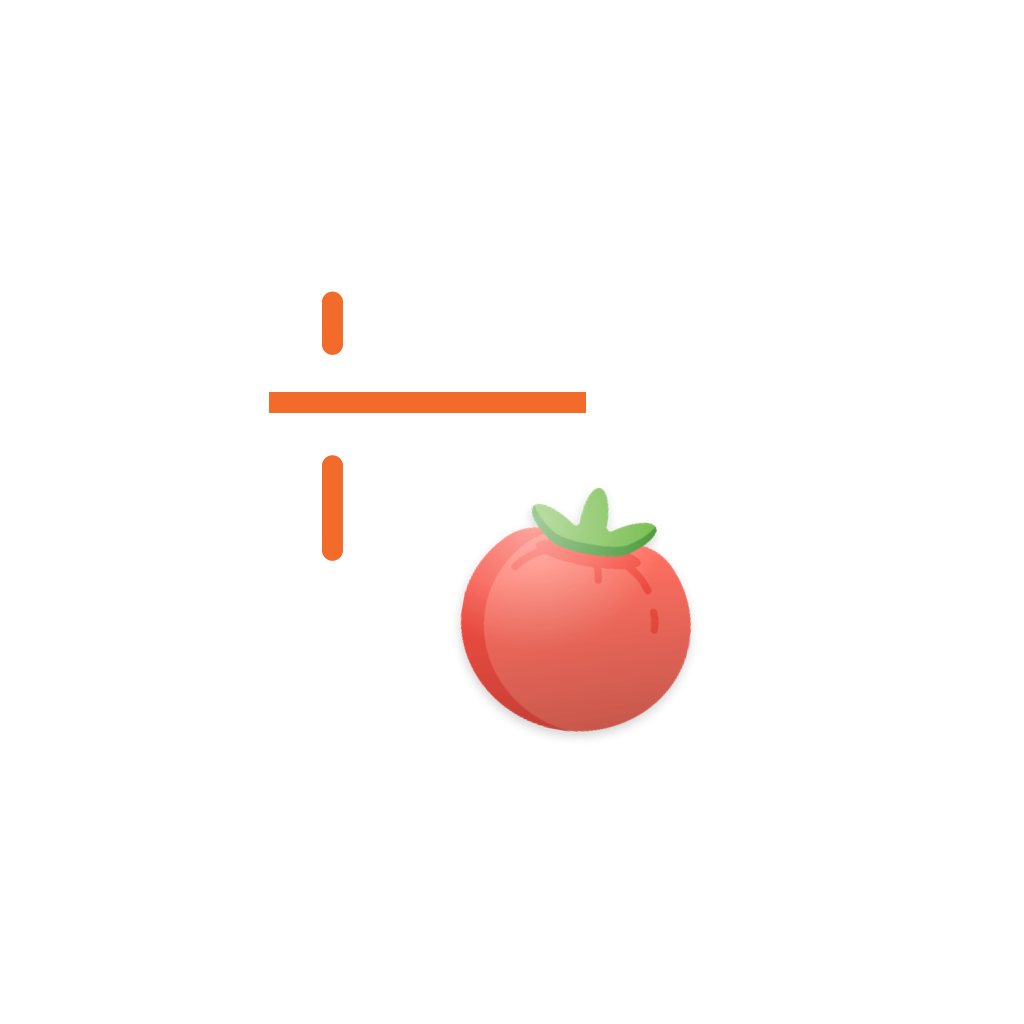
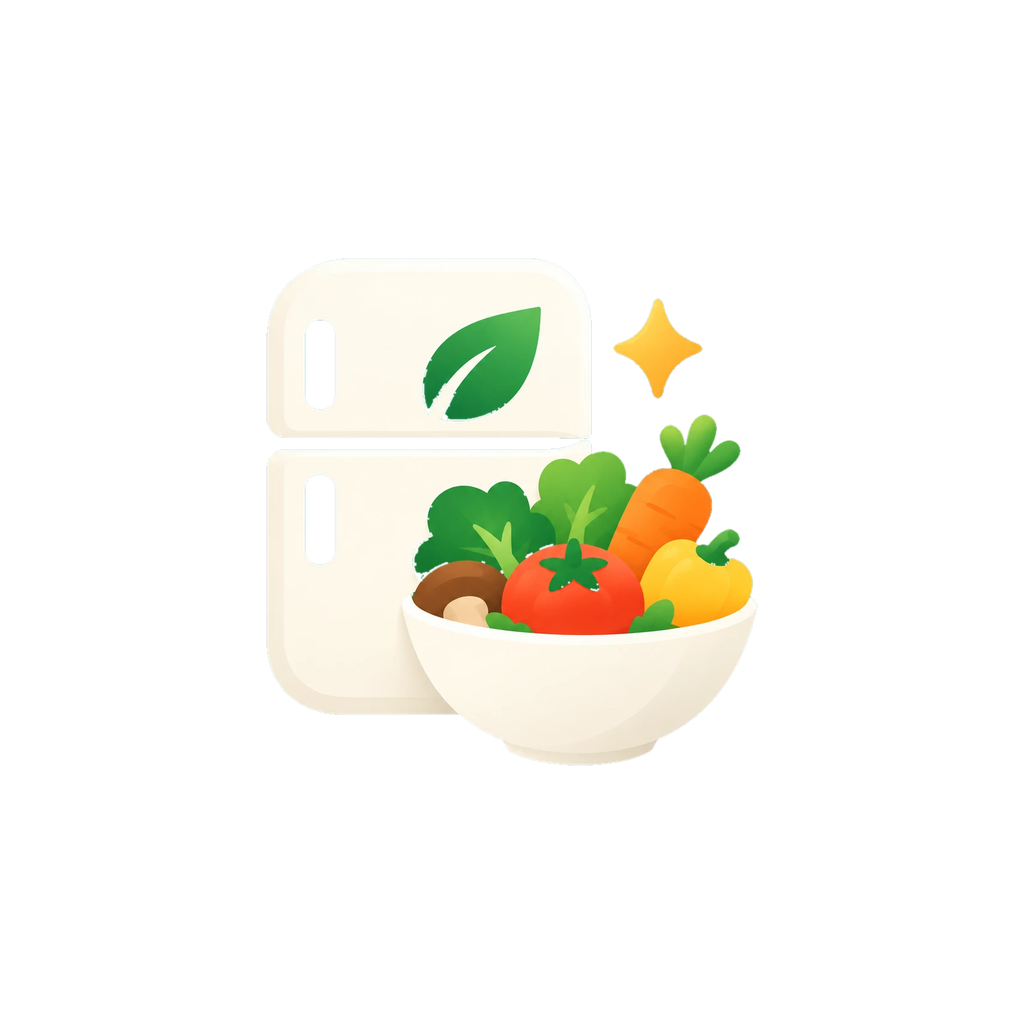
feat: 새 앱 아이콘 (짙은 초록 바탕 + 냉장고 + 채소 그릇)
- 원화(assets/brand/)에서 앱 아이콘, 안드로이드 적응형·테마 아이콘, 스플래시, 파비콘을 만드는 scripts/make-app-icon.py
- 테마 아이콘은 모노톤 원화로 잎·손잡이·그릇이 구분되게
- 적응형 아이콘 배경 #06503D, 스플래시는 흰 배경 위 둥근 아이콘(이어지는 인트로 화면과 맞춤)

Claude-Session: https://claude.ai/code/session_0167vu71muFPXDHPYQVLqW5L

Changed region(s): [[0.25, 0.2812, 0.75, 0.75]]

diff --git a/scripts/make-app-icon.py b/scripts/make-app-icon.py
@@ -1,0 +1,100 @@
+# 앱 아이콘·스플래시 이미지를 원화(assets/brand/app-icon-art.png)에서 만든다:
+# 짙은 초록 바탕 + 크림색 냉장고 + 채소 그릇 + 반짝이.
+#
+#   python3 scripts/make-app-icon.py      (Pillow, numpy 필요)
+#
+# 만드는 파일 (assets/):
+#   icon.png                      1024² 꽉 찬 정사각형 (iOS·스토어용, 모서리는 OS가 깎는다)
+#   android-icon-foreground.png   적응형 아이콘 앞면. 가운데 안전 영역(지름 66/108) 안에만 그린다
+#   android-icon-background.png   적응형 아이콘 바탕 (단색)
+#   android-icon-monochrome.png   Android 13+ 테마 아이콘용 실루엣 (모노톤 원화에서)
+#   splash-icon.png               스플래시 가운데 둥근 아이콘 (바깥 투명, 흰 배경 위에 놓인다)
+#   favicon.png                   웹 파비콘 48²
+#
+# 원화는 둥근 사각형 안에 그려진 그림이라, 초록 바탕을 지워 그림만 떼어 낸 뒤 용도별로 다시 놓는다.
+
+from pathlib import Path
+
+import numpy as np
+from PIL import Image, ImageDraw, ImageFilter
+
+ROOT = Path(__file__).resolve().parent.parent
+ASSETS = ROOT / 'assets'
+ART = ASSETS / 'brand' / 'app-icon-art.png'
+# 테마 아이콘(한 가지 색)용 모노톤 원화. 잎·손잡이가 뚫리고 그릇이 냉장고와 떨어져 있다.
+MONO_ART = ASSETS / 'brand' / 'app-icon-mono-art.png'
+
+# 원화 바탕의 위·아래 색 (위가 조금 밝다). 가운데 색은 app.json의 적응형 아이콘·스플래시 배경과 같다.
+TOP = (10, 92, 69)
+BOTTOM = (3, 68, 53)
+MID = (6, 80, 61)  # #06503D
+S = 1024
+
+
+def foreground(art: Image.Image) -> Image.Image:
+    """초록 바탕(그림자 포함)을 투명하게 지운 RGBA. 잎처럼 밝은 초록은 남긴다."""
+    a = np.asarray(art.convert('RGB')).astype(int)
+    r, g, b = a[..., 0], a[..., 1], a[..., 2]
+    bg = (r < 45) & (g < 115) & (b < 95) & (g > r + 25)
+    mask = Image.fromarray(np.where(bg, 0, 255).astype(np.uint8))
+    # 둥근 사각형 바깥의 흰 여백은 사각형 모양 마스크로 잘라 낸다 (냉장고의 크림색은 남는다)
+    frame = Image.new('L', art.size, 0)
+    ImageDraw.Draw(frame).rounded_rectangle((130, 126, 1124, 1126), radius=200, fill=255)
+    mask = Image.fromarray(np.minimum(np.asarray(mask), np.asarray(frame)))
+    mask = mask.filter(ImageFilter.MinFilter(3)).filter(ImageFilter.GaussianBlur(0.8))
+    out = art.convert('RGBA')
+    out.putalpha(mask)
+    return out.crop(out.getbbox())
+
+
+def silhouette(mono_art: Image.Image) -> Image.Image:
+    """테마 아이콘용 실루엣. 모노톤 원화(크림 바탕 + 짙은 초록 그림)에서 짙은 부분만 남긴다."""
+    a = np.asarray(mono_art.convert('L')).astype(float)
+    # 크림 바탕(밝음)은 투명, 짙은 초록은 불투명. 그 사이는 부드럽게.
+    alpha = np.clip((215 - a) / (215 - 90), 0, 1) * 255
+    out = Image.new('RGBA', mono_art.size, (255, 255, 255, 0))
+    out.putalpha(Image.fromarray(alpha.astype(np.uint8)))
+    return out.crop(out.getbbox())
+
+
+def gradient() -> Image.Image:
+    t = np.linspace(0, 1, S)[:, None, None]
+    rows = (np.array(TOP) * (1 - t) + np.array(BOTTOM) * t).astype(np.uint8)
+    return Image.fromarray(np.repeat(rows, S, axis=1), 'RGB')
+
+
+def place(canvas: Image.Image, fg: Image.Image, width: float, cy: float = 0.5) -> Image.Image:
+    """그림을 캔버스 폭의 width 비율로 줄여 가운데(세로는 cy)에 놓는다."""
+    w = round(S * width)
+    h = round(fg.height * w / fg.width)
+    scaled = fg.resize((w, h), Image.LANCZOS)
+    canvas.alpha_composite(scaled, ((S - w) // 2, round(S * cy - h / 2)))
+    return canvas
+
+
+def save(img: Image.Image, name: str, size: int = S) -> None:
+    if size != S:
+        img = img.resize((size, size), Image.LANCZOS)
+    img.save(ASSETS / name, optimize=True)
+    print(f'{name} ({size}²)')
+
+
+art = Image.open(ART)
+fg = foreground(art)
+
+# 원화에서 그림이 둥근 사각형의 약 3/4을 차지한다 → 같은 비율로 꽉 찬 아이콘을 다시 만든다.
+full = place(gradient().convert('RGBA'), fg, 0.74)
+save(full.convert('RGB'), 'icon.png')
+save(full.convert('RGB'), 'favicon.png', 48)
+
+# 적응형 아이콘은 원·물방울 등으로 잘려도 그림이 남도록 가운데 안전 영역에 맞춘다.
+save(place(Image.new('RGBA', (S, S)), fg, 0.48), 'android-icon-foreground.png')
+save(Image.new('RGB', (S, S), MID), 'android-icon-background.png')
+save(place(Image.new('RGBA', (S, S)), silhouette(Image.open(MONO_ART)), 0.48), 'android-icon-monochrome.png', 432)
+
+# 스플래시: 흰 배경 위 둥근 아이콘. 이어서 나오는 앱 인트로 화면도 흰 바탕이라 깜빡이지 않는다.
+corner = Image.new('L', (S, S), 0)
+ImageDraw.Draw(corner).rounded_rectangle((0, 0, S - 1, S - 1), radius=round(S * 0.225), fill=255)
+splash = full.copy()
+splash.putalpha(corner)
+save(splash, 'splash-icon.png')

diff --git a/README.md b/README.md
@@ -190,7 +190,7 @@ npx supabase functions deploy analyze-fridge
 - **레시피 사진** `assets/recipes/` — Unsplash 라이선스 무료 사진 (Unsplash+ 유료 사진 제외). 사진작가와 원본 링크는 `src/data/assets.ts`에 있고, 앱의 마이 → "사진·아이콘 출처"에서 볼 수 있다.
 - **재료 아이콘** `assets/ingredients/` — [Flaticon](https://www.flaticon.com/) Special Flat 스타일 (Freepik/Magnific). 무료 라이선스는 **출처 표시 필수**라 앱의 출처 화면에 표시한다. 원본 512px PNG와 아이콘별 링크는 `assets/ingredients/flaticon-src/` (`LICENSE.txt`, `picks.json`).
 - 앱용 아이콘은 원본에 그림자·빛 반사를 더해 256px로 만든 것이다: `node scripts/stylize-icons.mjs` (효과 세기는 스크립트의 `EFFECT`). 아이콘을 바꾸려면 같은 이름으로 원본을 덮어쓰고 다시 실행한다. 받을 목록은 `docs/flaticon-icons.md`.
-- 앱 아이콘(`icon.png`, 적응형 아이콘 3장)·스플래시·파비콘은 `node scripts/make-app-icon.mjs`로 만든다. 오렌지 바탕(`colors.accent`) + 흰 냉장고 + 토마토 스티커.
+- 앱 아이콘(`icon.png`, 적응형 아이콘 3장)·스플래시·파비콘은 `python3 scripts/make-app-icon.py`로 만든다 (Pillow, numpy 필요). 원화는 `assets/brand/`: 짙은 초록 바탕 + 냉장고 + 채소 그릇, 테마 아이콘용 모노톤.
 - 사진·아이콘을 추가하면 `src/data/assets.ts`에 `require` 항목을 추가하고, 재료 이름 → 아이콘 매핑은 `src/lib/icons.ts`에서 고친다.
 
 ## 주의
